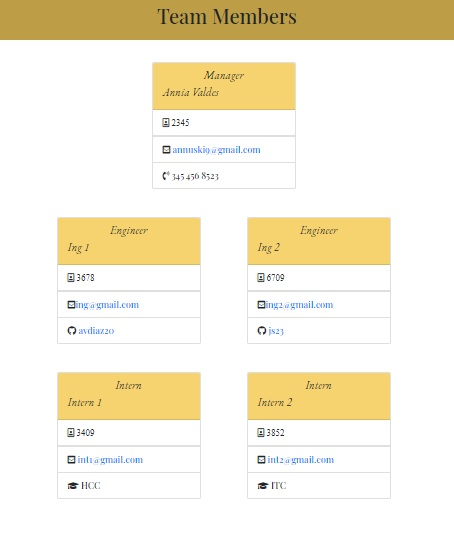
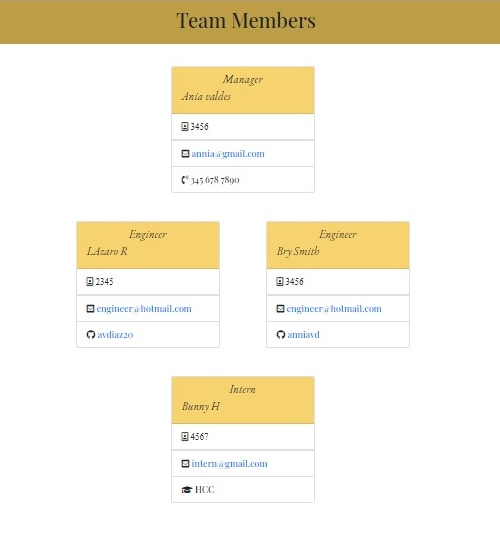
add a image for console app

diff --git a/dist/team.html b/dist/team.html
@@ -26,12 +26,12 @@
     <div class="card m-4 " style="width: 18rem;">
     <div class="card-header" style=" background-color: rgb(247, 211, 112);">
     <h3>Manager<h3>
-    <h4>Annia Valdes<h4>
+    <h4>Ania valdes<h4>
     </div>
     <ul class="list-group list-group-flush">
-      <li class="list-group-item"><i class="far fa-id-badge"> 2345</i></li>
-      <li class="list-group-item"><i class="fas fa-envelope-square"></i><a href="mailto:" + annuski9@gmail.com> annuski9@gmail.com</a></li>              
-      <li class="list-group-item"><i class="fas fa-phone-volume"></i> 345 456 8523</li>
+      <li class="list-group-item"><i class="far fa-id-badge"> 3456</i></li>
+      <li class="list-group-item"><i class="fas fa-envelope-square"></i><a href="mailto:" + annia@gmail.com> annia@gmail.com</a></li>              
+      <li class="list-group-item"><i class="fas fa-phone-volume"></i> 345 678 7890</li>
     </ul>
   </div>
   </div>
@@ -45,11 +45,11 @@
     <div class="card m-4 " style="width: 18rem; ">
     <div class="card-header" style=" background-color: rgb(247, 211, 112);">
     <h3>Engineer<h3>
-    <h4>Ing 1<h4>
+    <h4>LAzaro R<h4>
     </div>
     <ul class="list-group list-group-flush">          
-      <li class="list-group-item"><i class="far fa-id-badge"> 3678</i></li>              
-      <li class="list-group-item"><i class="fas fa-envelope-square"></i><a href="mailto:" +ing@gmail.com >ing@gmail.com</a></li>
+      <li class="list-group-item"><i class="far fa-id-badge"> 2345</i></li>              
+      <li class="list-group-item"><i class="fas fa-envelope-square"></i><a href="mailto:" +engineer@hotmail.com> engineer@hotmail.com</a></li>
       <li class="list-group-item"><i class="fab fa-github"></i><a href="https://github.com/avdiaz20" target="_blank"> avdiaz20</a></li>
     </ul>
   </div> 
@@ -60,12 +60,12 @@
     <div class="card m-4 " style="width: 18rem; ">
     <div class="card-header" style=" background-color: rgb(247, 211, 112);">
     <h3>Engineer<h3>
-    <h4>Ing 2<h4>
+    <h4>Bry Smith<h4>
     </div>
     <ul class="list-group list-group-flush">          
-      <li class="list-group-item"><i class="far fa-id-badge"> 6709</i></li>              
-      <li class="list-group-item"><i class="fas fa-envelope-square"></i><a href="mailto:" +ing2@gmail.com >ing2@gmail.com</a></li>
-      <li class="list-group-item"><i class="fab fa-github"></i><a href="https://github.com/js23" target="_blank"> js23</a></li>
+      <li class="list-group-item"><i class="far fa-id-badge"> 3456</i></li>              
+      <li class="list-group-item"><i class="fas fa-envelope-square"></i><a href="mailto:" +engineer@hotmail.com> engineer@hotmail.com</a></li>
+      <li class="list-group-item"><i class="fab fa-github"></i><a href="https://github.com/anniavd" target="_blank"> anniavd</a></li>
     </ul>
   </div> 
   </div> 
@@ -78,27 +78,12 @@
 <div class="card m-4 " style="width: 18rem; ">
     <div class="card-header" style=" background-color:rgb(247, 211, 112);">
     <h3>Intern<h3>   
-    <h4>Intern 1<h4>   
+    <h4>Bunny H<h4>   
     </div>
     <ul class="list-group list-group-flush">          
-      <li class="list-group-item"><i class="far fa-id-badge"> 3409</i> </li>              
-      <li class="list-group-item"><i class="fas fa-envelope-square"></i><a href="mailto:" +int1@gmail.com> int1@gmail.com</a></li>
+      <li class="list-group-item"><i class="far fa-id-badge"> 4567</i> </li>              
+      <li class="list-group-item"><i class="fas fa-envelope-square"></i><a href="mailto:" +intern@gmail.com> intern@gmail.com</a></li>
       <li class="list-group-item"><i class="fas fa-graduation-cap"></i> HCC</li>
-    </ul>
-  </div> 
-  </div> 
-    
-
-<div class="col-md-4">             
-<div class="card m-4 " style="width: 18rem; ">
-    <div class="card-header" style=" background-color:rgb(247, 211, 112);">
-    <h3>Intern<h3>   
-    <h4>Intern 2<h4>   
-    </div>
-    <ul class="list-group list-group-flush">          
-      <li class="list-group-item"><i class="far fa-id-badge"> 3852</i> </li>              
-      <li class="list-group-item"><i class="fas fa-envelope-square"></i><a href="mailto:" +int2@gmail.com> int2@gmail.com</a></li>
-      <li class="list-group-item"><i class="fas fa-graduation-cap"></i> ITC</li>
     </ul>
   </div> 
   </div> 

diff --git a/README.md b/README.md
@@ -7,8 +7,14 @@
 # Description
 
 Team Members is an application through which the user can form a work team with essential information about its members.the work team will be made up of a manager, engineers and interns.The managen will enter as many engineers as internal make up their team through the console and then this information will be displayed in an html that will be generated dynamically.
+
+#### Below is an image of the data entry by console.
+
+![console info](/image/app-console.jpg)
   
  
+#### The HTML:
+
  ![Homepage](/image/home-page.jpg)
 
 
@@ -31,4 +37,9 @@ NONE
 
   
   Email acount: [annia.valdesd@gmail.com](mailto:annia.valdesd@gmail.com)
+
+
+ ### You can find an explanatory video about the app.
+
+ [link to the app video](https://drive.google.com/file/d/1ZC5USr2LN5CogLgkBolTQcQzFMscxmHW)
     
